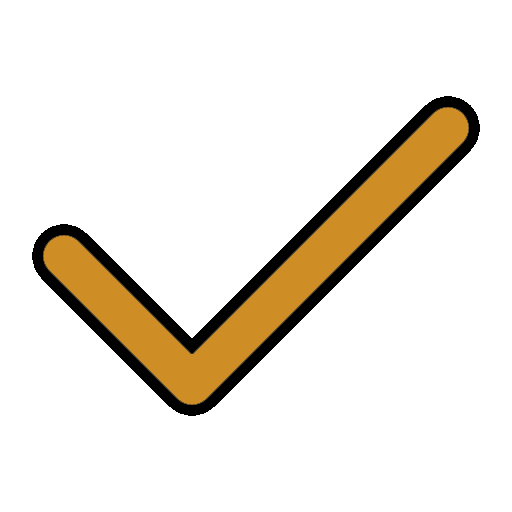
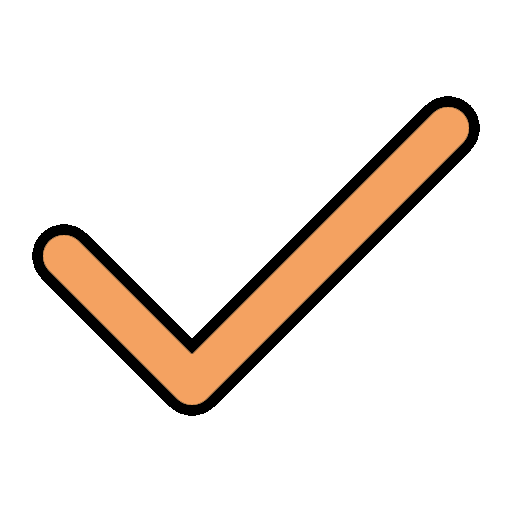
recolor

Changed region(s): [[0.0625, 0.1875, 0.9375, 0.8125]]

diff --git a/css/home.css b/css/home.css
@@ -96,7 +96,7 @@ a {
     align-self: center;
     text-align: center;
     line-height: 36px;
-    border-color: #a9b63f;
+    border-color: #f4a261;
     border-width: 1px;
 }
 
@@ -283,7 +283,7 @@ a {
 }
 
 .nav-link:hover {
-    color: #ffb03b !important;
+    color: #f4a261 !important;
 }
 
 .page-button {
@@ -293,7 +293,7 @@ a {
     padding: 10px 18px;
     border-radius: 56px;
     color: #fff;
-    background-color: #ffb03b;
+    background-color: #f4a261;
     cursor: pointer;
     transition: 0.3s;
 }
@@ -515,7 +515,7 @@ a {
 .left_separator, .right_separator {
     width: 0;
     height: 1px;
-    background-color: #ffb03b;
+    background-color: #f4a261;
     transition: width 3s;
     transition-timing-function: ease;
 }
@@ -563,7 +563,7 @@ a {
     font-family: Pacifico;
     font-style: normal;
     text-align: center;
-    color: #ffb03b;
+    color: #f4a261;
     text-shadow: 0 -1px 5px rgba(244, 162, 97, 0.6);
     font-size: 70px;
     font-weight: 400;
@@ -592,14 +592,14 @@ a {
 }
 
 .carousel-indicators .active {
-    background-color: #ffb03b !important;
+    background-color: #f4a261 !important;
     opacity: 0.7 !important;
 }
 
 .carousel-control-next-icon, .carousel-control-prev-icon {
     width: 60px !important;
     height: 60px !important;
-    color: #ffb03b !important;
+    color: #f4a261 !important;
 }
 
 
